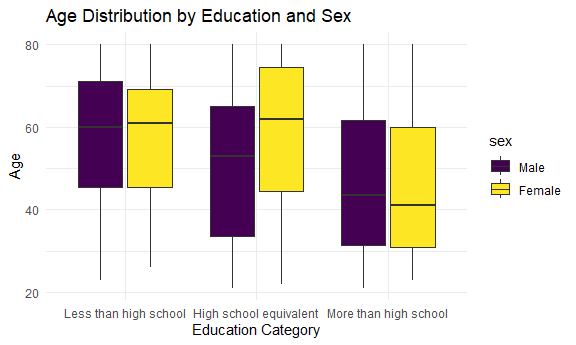
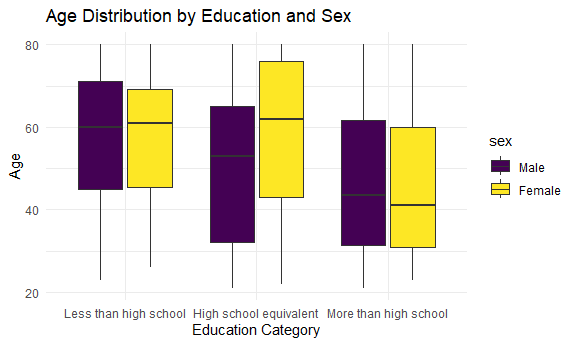
continued work on problem 2 visualizations; imported data for problem 3

diff --git a/p8105_hw3_cm3341.md b/p8105_hw3_cm3341.md
@@ -92,7 +92,8 @@ Join the two datasets using `left_join`
 full_nhanes = 
   nhanes_accel %>%
   left_join(
-    nhanes_demo, by = c("seqn"))
+    nhanes_demo, by = c("seqn"))%>%
+  drop_na()
 ```
 
 Produce a reader-friendly table for the number of men and women in each
@@ -100,7 +101,7 @@ education category.
 
 ``` r
 table_data = 
-  nhanes_demo %>%
+  full_nhanes %>%
   group_by(education, sex) %>%
   summarise(count = n()) %>%
   ungroup()
@@ -115,19 +116,19 @@ kable(table_data, col.names = c("Education", "Sex", "Count"))
 
 | Education              | Sex    | Count |
 |:-----------------------|:-------|------:|
-| Less than high school  | Male   |    27 |
-| Less than high school  | Female |    28 |
-| High school equivalent | Male   |    35 |
-| High school equivalent | Female |    23 |
-| More than high school  | Male   |    56 |
-| More than high school  | Female |    59 |
+| Less than high school  | Male   | 38880 |
+| Less than high school  | Female | 40320 |
+| High school equivalent | Male   | 50400 |
+| High school equivalent | Female | 33120 |
+| More than high school  | Male   | 80640 |
+| More than high school  | Female | 84960 |
 
 Create a visualization of the age distributions for men and women in
 each education category.
 
 ``` r
 ggplot(
-  nhanes_demo, 
+  full_nhanes, 
   aes(x = education, 
       y = age, 
       fill = sex)) +
@@ -140,4 +141,109 @@ ggplot(
 
 <img src="p8105_hw3_cm3341_files/figure-gfm/unnamed-chunk-6-1.png" width="90%" />
 
+``` r
+total_activity_data = full_nhanes %>%
+  group_by(seqn, sex, age, education) %>%
+  summarise(total_activity = sum(mims, na.rm = TRUE)) %>%
+  ungroup()
+```
+
+    ## `summarise()` has grouped output by 'seqn', 'sex', 'age'. You can override
+    ## using the `.groups` argument.
+
+``` r
+ggplot(total_activity_data, aes(x = age, y = total_activity, color = sex)) +
+  geom_point(alpha = 0.6) +   
+  geom_smooth(method = "loess", se = FALSE) +
+  facet_wrap(~education) +
+  labs(title = "Total Activity vs Age by Sex and Education Level",
+       x = "Age",
+       y = "Total Activity (Sum of MIMS)",
+       color = "Sex") +
+  theme_minimal() +
+  theme(legend.position = "bottom")
+```
+
+    ## `geom_smooth()` using formula = 'y ~ x'
+
+<img src="p8105_hw3_cm3341_files/figure-gfm/unnamed-chunk-8-1.png" width="90%" />
+
+According to the graphs,
+
+Accelerometer data allows the inspection activity over the course of the
+day. Make a three-panel plot that shows the 24-hour activity time
+courses for each education level and use color to indicate sex. Describe
+in words any patterns or conclusions you can make based on this graph;
+including smooth trends may help identify differences.
+
 ## Problem 3
+
+Import the four citibike datasets
+
+``` r
+citi_012020 = 
+  read_csv("data/Jan 2020 Citi.csv", 
+    na = c("NA", "."))%>%
+  janitor::clean_names() %>% 
+  na.omit()
+```
+
+    ## Rows: 12420 Columns: 7
+    ## ── Column specification ────────────────────────────────────────────────────────
+    ## Delimiter: ","
+    ## chr (6): ride_id, rideable_type, weekdays, start_station_name, end_station_n...
+    ## dbl (1): duration
+    ## 
+    ## ℹ Use `spec()` to retrieve the full column specification for this data.
+    ## ℹ Specify the column types or set `show_col_types = FALSE` to quiet this message.
+
+``` r
+citi_012024 = 
+  read_csv("data/Jan 2024 Citi.csv", 
+    na = c("NA", "."))%>%
+  janitor::clean_names() %>% 
+  na.omit()
+```
+
+    ## Rows: 18861 Columns: 7
+    ## ── Column specification ────────────────────────────────────────────────────────
+    ## Delimiter: ","
+    ## chr (6): ride_id, rideable_type, weekdays, start_station_name, end_station_n...
+    ## dbl (1): duration
+    ## 
+    ## ℹ Use `spec()` to retrieve the full column specification for this data.
+    ## ℹ Specify the column types or set `show_col_types = FALSE` to quiet this message.
+
+``` r
+citi_072020 = 
+  read_csv("data/July 2020 Citi.csv", 
+    na = c("NA", "."))%>%
+  janitor::clean_names() %>% 
+  na.omit()
+```
+
+    ## Rows: 21048 Columns: 7
+    ## ── Column specification ────────────────────────────────────────────────────────
+    ## Delimiter: ","
+    ## chr (6): ride_id, rideable_type, weekdays, start_station_name, end_station_n...
+    ## dbl (1): duration
+    ## 
+    ## ℹ Use `spec()` to retrieve the full column specification for this data.
+    ## ℹ Specify the column types or set `show_col_types = FALSE` to quiet this message.
+
+``` r
+citi_072024 = 
+  read_csv("data/July 2024 Citi.csv", 
+    na = c("NA", "."))%>%
+  janitor::clean_names() %>% 
+  na.omit()
+```
+
+    ## Rows: 47156 Columns: 7
+    ## ── Column specification ────────────────────────────────────────────────────────
+    ## Delimiter: ","
+    ## chr (6): ride_id, rideable_type, weekdays, start_station_name, end_station_n...
+    ## dbl (1): duration
+    ## 
+    ## ℹ Use `spec()` to retrieve the full column specification for this data.
+    ## ℹ Specify the column types or set `show_col_types = FALSE` to quiet this message.
